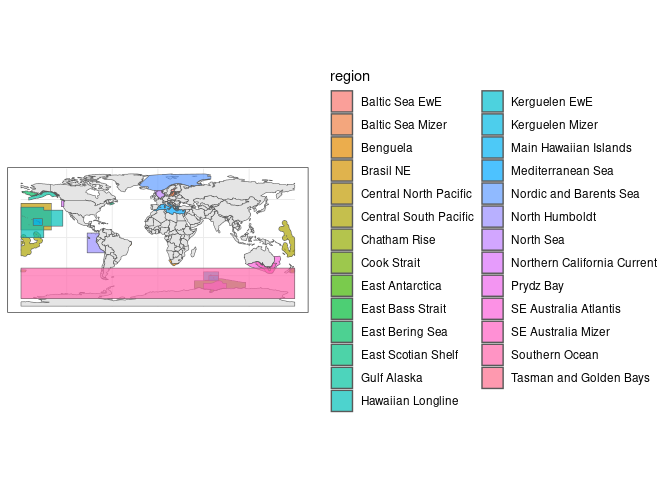
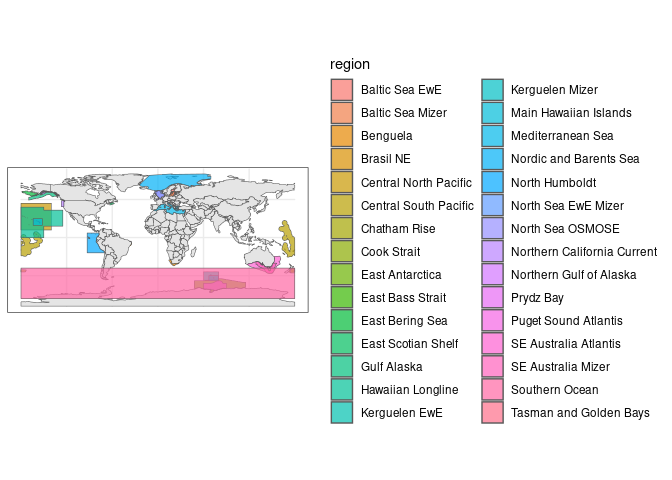
updating raster and csv masks with 30 regional models

diff --git a/Scripts/03b_Regional_Models_3DMasks.md b/Scripts/03b_Regional_Models_3DMasks.md
@@ -265,7 +265,7 @@ reg_keys |>
 reg_keys
 ```
 
-    ## # A tibble: 27 × 2
+    ## # A tibble: 30 × 2
     ##       id region               
     ##    <int> <chr>                
     ##  1     1 Baltic Sea EwE       
@@ -278,7 +278,7 @@ reg_keys
     ##  8     8 Cook Strait          
     ##  9     9 East Antarctica      
     ## 10    10 East Bass Strait     
-    ## # ℹ 17 more rows
+    ## # ℹ 20 more rows
 
 ## How to use raster mask
 
@@ -378,7 +378,7 @@ mask_df <- read_csv("../Outputs/FishMIPMasks/FishMIP_regional_mask_1deg.csv") |>
   filter(region == "East Antarctica")
 ```
 
-    ## Rows: 22988 Columns: 4
+    ## Rows: 23097 Columns: 4
     ## ── Column specification ────────────────────────────────────────────────────────
     ## Delimiter: ","
     ## chr (1): region
@@ -404,11 +404,11 @@ You can also apply the mask to extract all data at once.
 
 ``` r
 #Apply mask to ESM data
-extract_df_all <-read_csv("../Outputs/FishMIPMasks/FishMIP_regional_mask_1deg.csv") |> 
+extract_df_all <- read_csv("../Outputs/FishMIPMasks/FishMIP_regional_mask_1deg.csv") |> 
   left_join(sample_df, by = c("lon", "lat"))
 ```
 
-    ## Rows: 22988 Columns: 4
+    ## Rows: 23097 Columns: 4
     ## ── Column specification ────────────────────────────────────────────────────────
     ## Delimiter: ","
     ## chr (1): region
@@ -424,9 +424,6 @@ extract_df_all |>
   #Color by region, transparency by area
   geom_raster(aes(x = lon, y = lat, fill = region, alpha = area_m))
 ```
-
-    ## Warning: Raster pixels are placed at uneven horizontal intervals and will be shifted
-    ## ℹ Consider using `geom_tile()` instead.
 
 ![](03b_Regional_Models_3DMasks_files/figure-gfm/unnamed-chunk-13-1.png)<!-- -->
 
